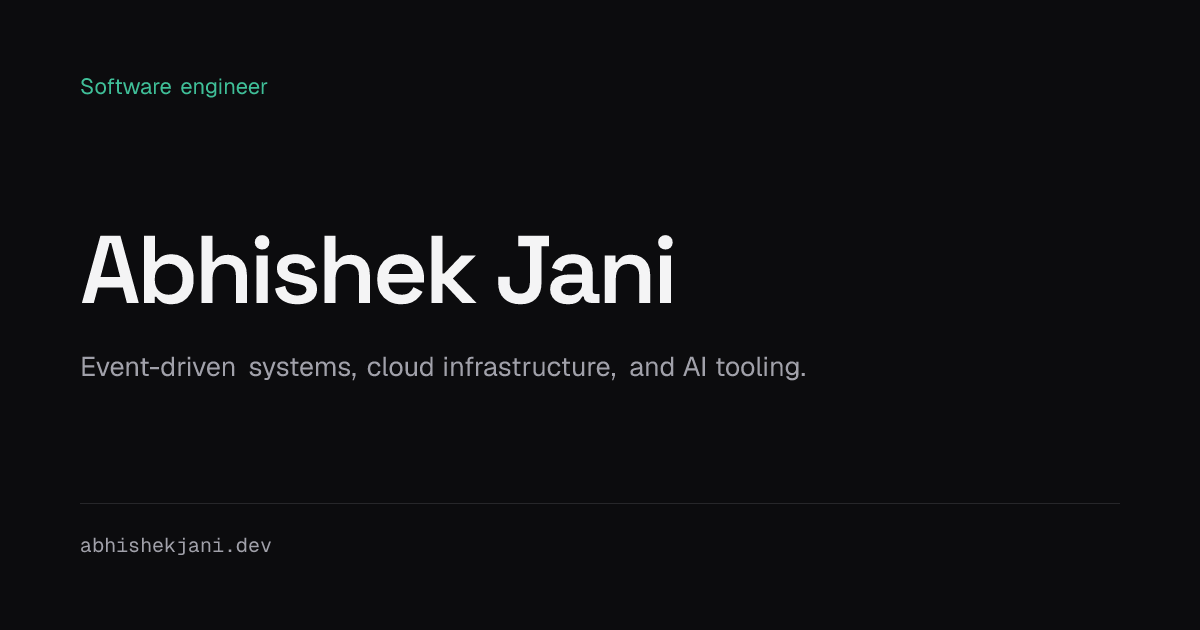
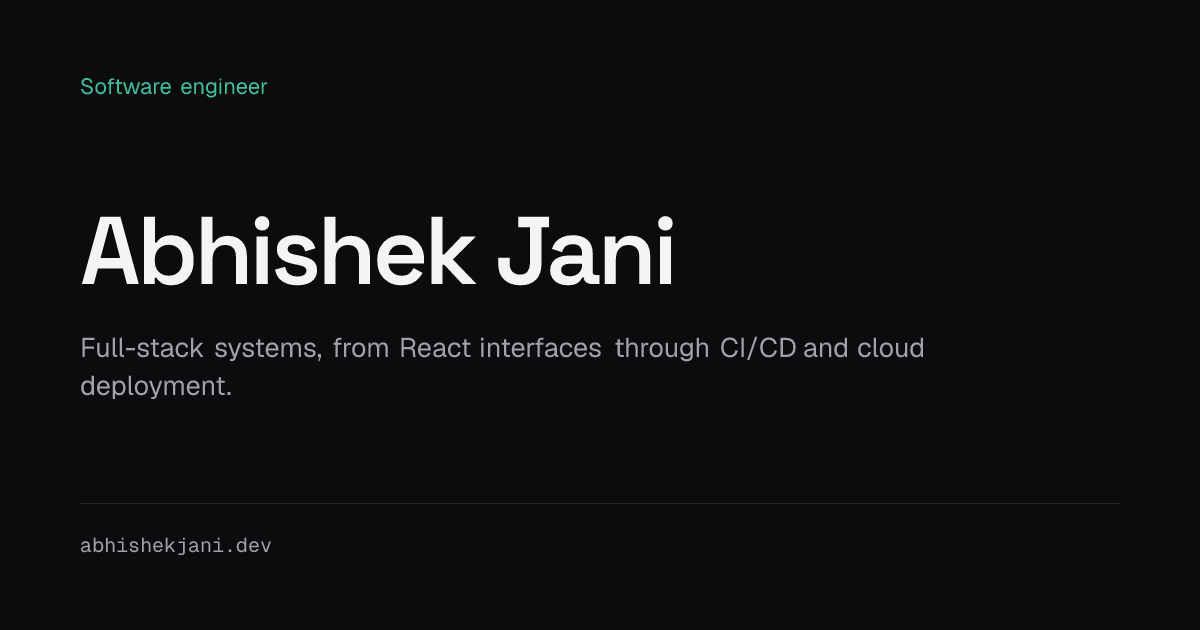
Widen the hero positioning beyond backend
The subline read as backend-only, which undersells the frontend, DevOps,
and cloud work. Now spans React interfaces through CI/CD and cloud
deployment, and gives the AI agent work an actual timeframe instead of
the vague "most recently".

Meta description and OG card updated to match.

Changed region(s): [[0.0617, 0.3317, 0.5858, 0.4825], [0.0617, 0.5127, 0.7708, 0.6333]]

diff --git a/src/lib/site.ts b/src/lib/site.ts
@@ -11,7 +11,7 @@ export const site = {
   linkedin: "https://www.linkedin.com/in/abhishek-jani-97b8781a7/",
   resume: "/Abhishek-Jani-Resume.pdf",
   description:
-    "Software engineer building backend services that hold up in production, from schema design and API contracts through CI/CD and cloud deployment. Most recently, AI agent infrastructure.",
+    "Software engineer building full-stack systems that hold up in production, from React interfaces and API contracts through CI/CD and cloud deployment. This past year, AI agent infrastructure.",
 } as const;
 
 // The site is one page. These are its sections, in document order, and they
